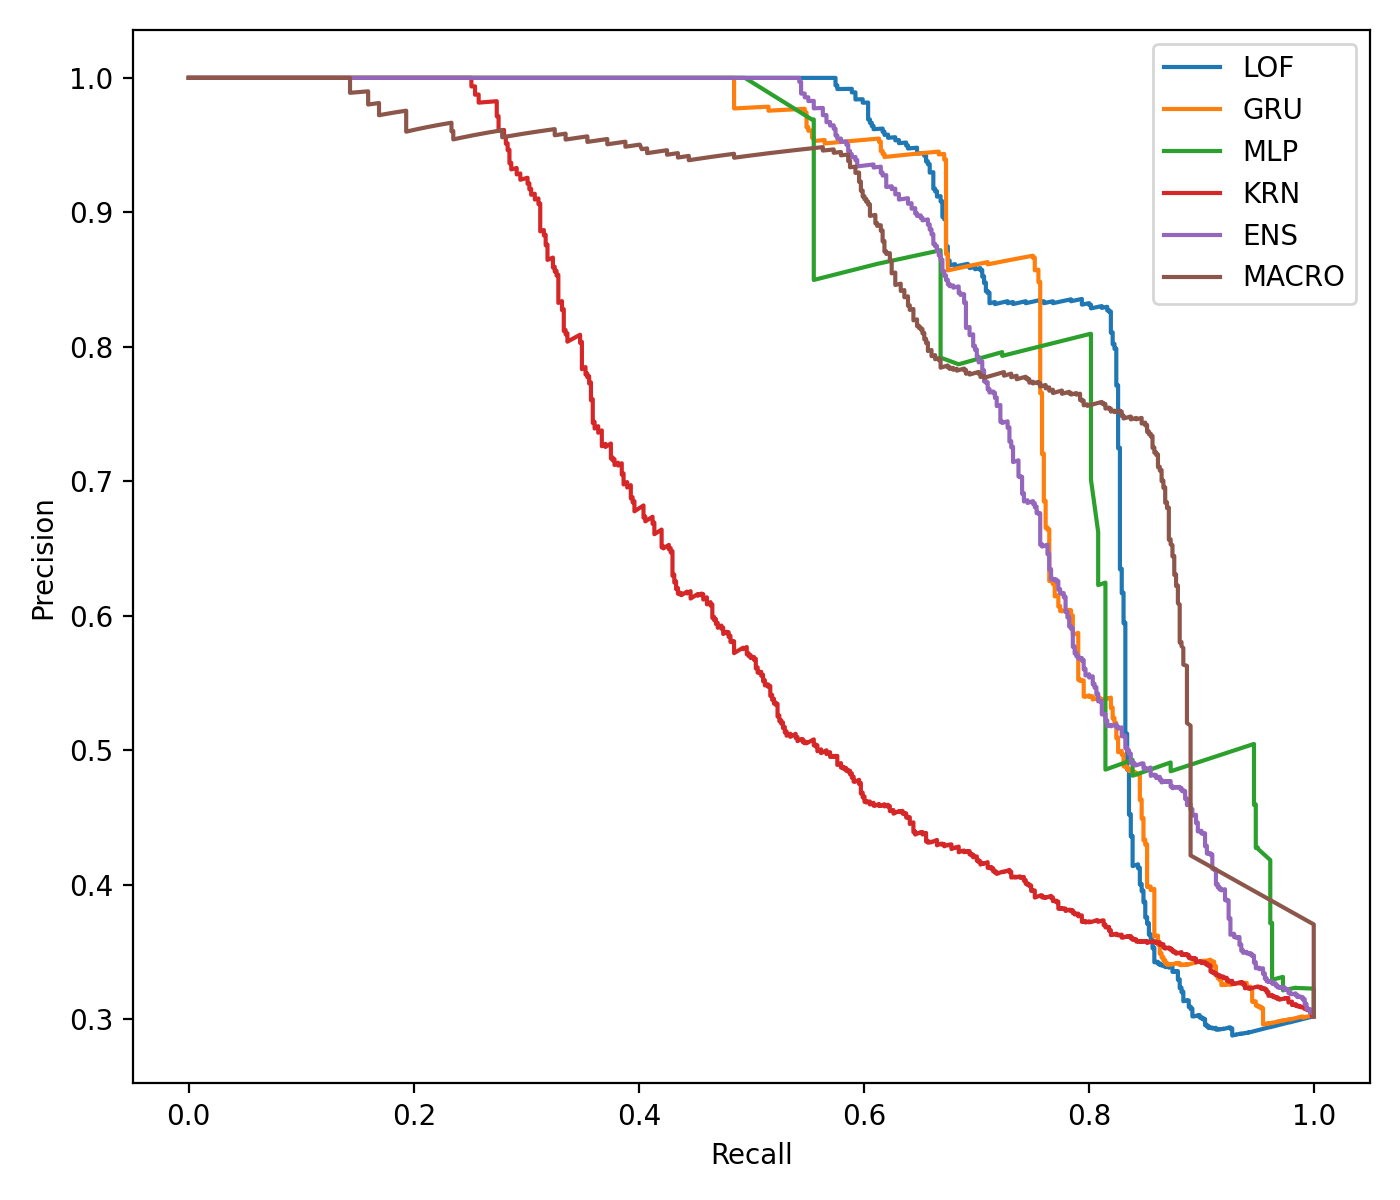
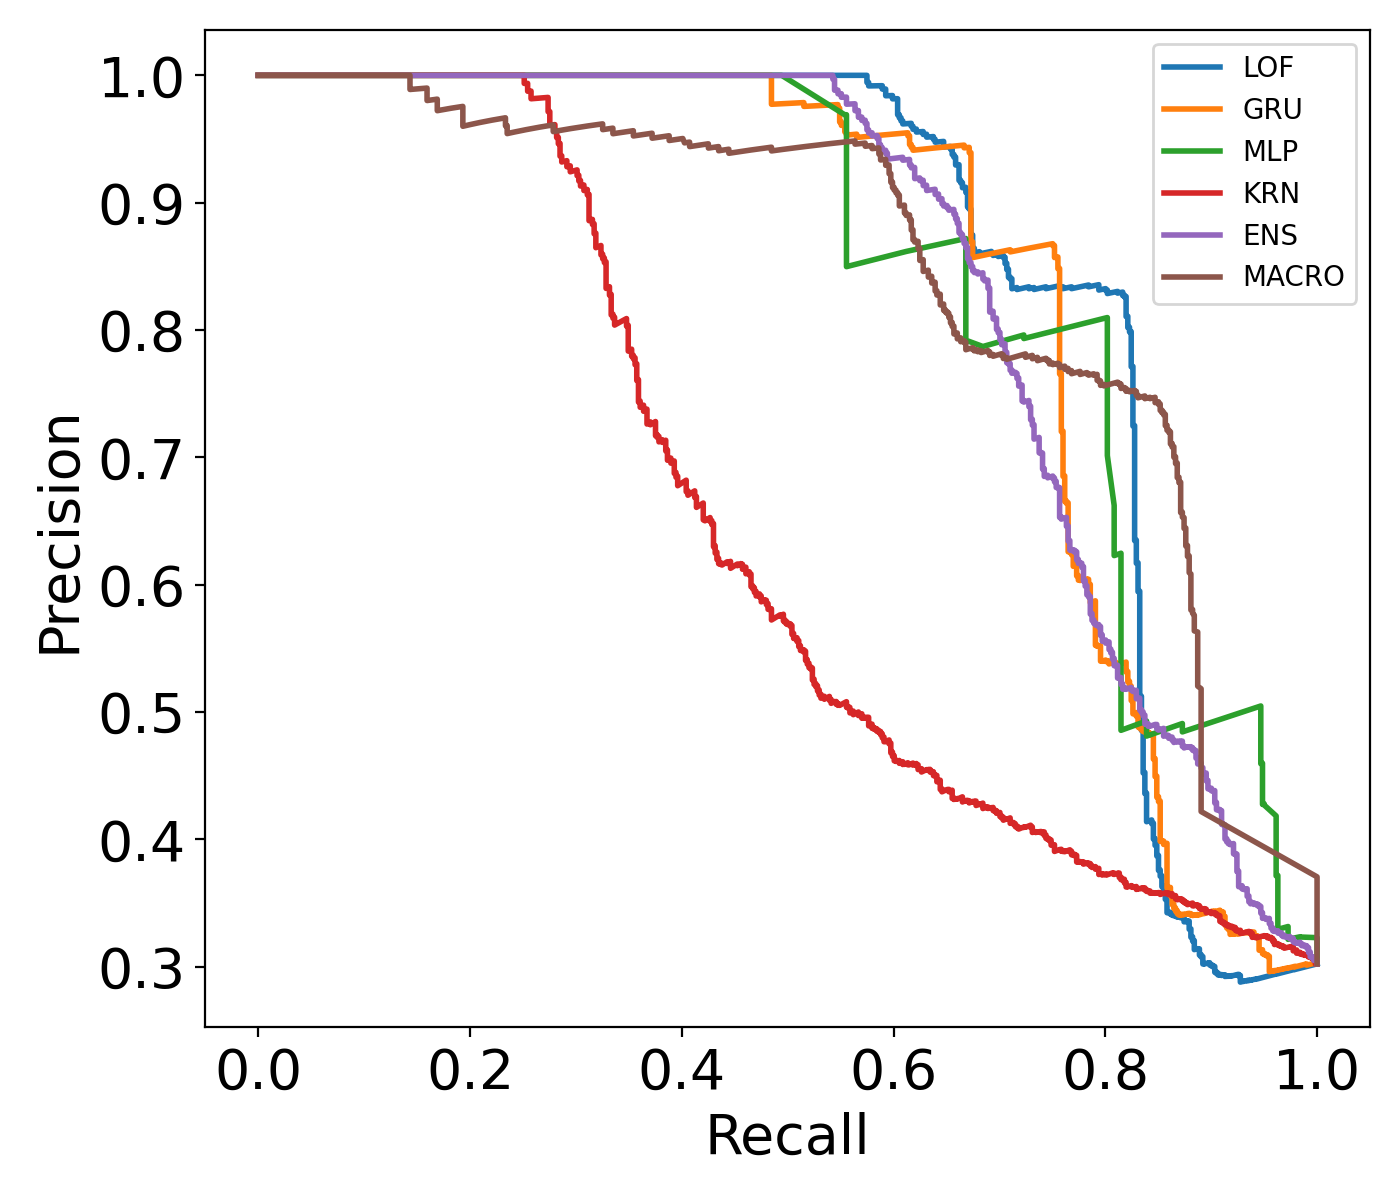
final commit for submission

diff --git a/src/plotting.py b/src/plotting.py
@@ -30,22 +30,33 @@ def plot_score_distributions(out_path, y_true, score_dict):
 
 
 def plot_roc_pr(out_path_roc, out_path_pr, y_true, score_dict):
-    plt.figure(figsize=(7, 6))
+    _FS = 40      # 300 % increase over matplotlib default (~10 pt)
+    _FS_AX = 20  # axis labels and ticks halved
+
+    fig, ax = plt.subplots(figsize=(7, 6))
     for name, s in score_dict.items():
         fpr, tpr, _ = roc_points(y_true, s)
-        plt.plot(fpr, tpr, label=name)
-    plt.plot([0, 1], [0, 1], linestyle="--", color="gray")
-    plt.xlabel("FPR");  plt.ylabel("TPR")
-    plt.legend();  plt.tight_layout()
-    plt.savefig(out_path_roc, dpi=200);  plt.close()
+        ax.plot(fpr, tpr, label=name, linewidth=2)
+    ax.plot([0, 1], [0, 1], linestyle="--", color="gray", linewidth=1.5)
+    ax.set_xlabel("FPR", fontsize=_FS_AX)
+    ax.set_ylabel("TPR", fontsize=_FS_AX)
+    ax.tick_params(axis="both", labelsize=_FS_AX)
+    ax.legend(fontsize=_FS // 4)
+    fig.tight_layout()
+    fig.savefig(out_path_roc, dpi=200)
+    plt.close(fig)
 
-    plt.figure(figsize=(7, 6))
+    fig, ax = plt.subplots(figsize=(7, 6))
     for name, s in score_dict.items():
         prec, rec, _ = pr_points(y_true, s)
-        plt.plot(rec, prec, label=name)
-    plt.xlabel("Recall");  plt.ylabel("Precision")
-    plt.legend();  plt.tight_layout()
-    plt.savefig(out_path_pr, dpi=200);  plt.close()
+        ax.plot(rec, prec, label=name, linewidth=2)
+    ax.set_xlabel("Recall", fontsize=_FS_AX)
+    ax.set_ylabel("Precision", fontsize=_FS_AX)
+    ax.tick_params(axis="both", labelsize=_FS_AX)
+    ax.legend(fontsize=_FS // 4)
+    fig.tight_layout()
+    fig.savefig(out_path_pr, dpi=200)
+    plt.close(fig)
 
 
 def plot_calibration(out_path, bin_centers, mean_pred, mean_true, counts):
@@ -114,7 +125,7 @@ def plot_anomaly_overlay(out_path, ts, demand, y_true, pred_dict):
     models  = list(pred_dict.keys())
     n       = len(models)
 
-    fig, axes = plt.subplots(n, 1, figsize=(22, 4 * n), sharex=True)
+    fig, axes = plt.subplots(n, 1, figsize=(40, 8 * n), sharex=True)
     if n == 1:
         axes = [axes]
 
@@ -163,8 +174,9 @@ def plot_anomaly_overlay(out_path, ts, demand, y_true, pred_dict):
                        linewidths=1.8, zorder=4, label="_fp")
 
         # ── formatting ────────────────────────────────────────────────────
-        ax.set_title(model_name, fontsize=12, fontweight="bold", loc="left")
-        ax.set_ylabel("Passengers")
+        ax.set_title(model_name, fontsize=72, fontweight="bold", loc="left")
+        ax.set_ylabel("Passengers", fontsize=60)
+        ax.tick_params(axis="both", labelsize=60)
         ax.yaxis.set_major_formatter(
             plt.FuncFormatter(lambda x, _: f"{int(x):,}")
         )
@@ -172,16 +184,16 @@ def plot_anomaly_overlay(out_path, ts, demand, y_true, pred_dict):
     # ── x-axis ticks on bottom subplot ───────────────────────────────────
     axes[-1].xaxis.set_major_formatter(mdates.DateFormatter("%b %d"))
     axes[-1].xaxis.set_major_locator(mdates.WeekdayLocator(byweekday=0))
-    plt.setp(axes[-1].xaxis.get_majorticklabels(), rotation=30, ha="right")
-    axes[-1].set_xlabel("Date")
+    plt.setp(axes[-1].xaxis.get_majorticklabels(), rotation=30, ha="right", fontsize=60)
+    axes[-1].set_xlabel("Date", fontsize=60)
 
     # ── shared legend at the top ──────────────────────────────────────────
     fig.legend(handles=legend_patches, loc="upper center",
-               ncol=4, fontsize=10, framealpha=0.9,
+               ncol=4, fontsize=60, framealpha=0.9,
                bbox_to_anchor=(0.5, 1.01))
 
     fig.suptitle("Anomaly Detection — Actual Demand vs Model Flags (Test Set)",
-                 fontsize=13, fontweight="bold", y=1.03)
+                 fontsize=78, fontweight="bold", y=1.03)
 
     plt.tight_layout()
     plt.savefig(out_path, dpi=180, bbox_inches="tight")
